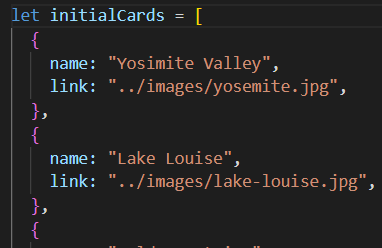
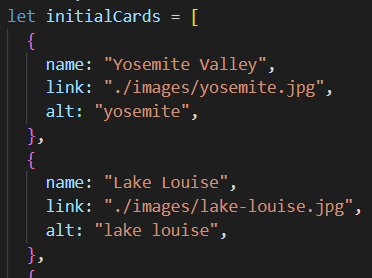
S4.4 fix: submission 1 corrections

diff --git a/index.html b/index.html
@@ -18,41 +18,6 @@
   </head>
   <body>
     <div class="page">
-      <div class="modal">
-        <div class="modal__container">
-          <form class="form">
-            <button class="form__close-button" type="button" name="close">
-              <img
-                class="form__close-icon"
-                src="./images/close-icon.png"
-                alt="close"
-              />
-            </button>
-            <p class="form__description">Edit Profile</p>
-            <fieldset class="form__fieldset">
-              <input
-                type="text"
-                class="form__input form__input_type_name"
-                id="name"
-                name="name"
-                placeholder="Name"
-                required
-              />
-              <input
-                type="text"
-                class="form__input form__input_type_about"
-                id="about"
-                name="about"
-                placeholder="About Me"
-                required
-              />
-              <button type="submit" class="form__submit-button" name="submit">
-                Save
-              </button>
-            </fieldset>
-          </form>
-        </div>
-      </div>
       <header class="header">
         <img class="logo" src="./images/logo.svg" alt="Logo" />
       </header>
@@ -65,7 +30,11 @@
           />
           <div class="profile__info">
             <h1 class="profile__title">Jacques Cousteau</h1>
-            <button class="profile__edit-button" type="button"></button>
+            <button
+              class="profile__edit-button"
+              type="button"
+              aria-label="edit"
+            ></button>
             <p class="profile__description">Explorer</p>
           </div>
           <button class="profile__add-button" type="button">
@@ -91,6 +60,40 @@
       <footer class="footer">
         <p class="footer__text">© 2002 Around The U.S.</p>
       </footer>
+      <div class="modal">
+        <div class="modal__container">
+          <button
+            class="modal__close-button"
+            type="button"
+            name="close"
+            aria-label="close"
+          ></button>
+          <form class="form">
+            <h2 class="form__description">Edit Profile</h2>
+            <fieldset class="form__fieldset">
+              <input
+                type="text"
+                class="form__input form__input_type_name"
+                id="name"
+                name="name"
+                placeholder="Name"
+                required
+              />
+              <input
+                type="text"
+                class="form__input form__input_type_about"
+                id="about"
+                name="about"
+                placeholder="About Me"
+                required
+              />
+              <button type="submit" class="form__submit-button" name="submit">
+                Save
+              </button>
+            </fieldset>
+          </form>
+        </div>
+      </div>
     </div>
     <script src="./scripts/index.js"></script>
   </body>

diff --git a/scripts/index.js b/scripts/index.js
@@ -1,27 +1,33 @@
 let initialCards = [
   {
-    name: "Yosimite Valley",
+    name: "Yosemite Valley",
     link: "./images/yosemite.jpg",
+    alt: "yosemite",
   },
   {
     name: "Lake Louise",
     link: "./images/lake-louise.jpg",
+    alt: "lake louise",
   },
   {
     name: "Bald Mountains",
     link: "./images/bald-mountains.jpg",
+    alt: "bald mountains",
   },
   {
     name: "Latemar",
     link: "./images/latemar.jpg",
+    alt: "latemar",
   },
   {
     name: "Vanoise National Park",
     link: "./images/vanoise.jpg",
+    alt: "vanoise",
   },
   {
     name: "Lago di Braies",
     link: "./images/lago.jpg",
+    alt: "lago",
   },
 ];
 
@@ -29,7 +35,7 @@ const modalOverlay = document.querySelector(".modal");
 const formElement = document.querySelector(".form");
 const profileElement = document.querySelector(".profile");
 
-const closeButton = formElement.querySelector(".form__close-button");
+const closeButton = modalOverlay.querySelector(".modal__close-button");
 const submitButton = formElement.querySelector(".form__submit-button");
 const editButton = profileElement.querySelector(".profile__edit-button");
 
@@ -37,6 +43,9 @@ const formNameText = formElement.querySelector(".form__input_type_name");
 const formAboutText = formElement.querySelector(".form__input_type_about");
 const currentNameText = profileElement.querySelector(".profile__title");
 const currentAboutText = profileElement.querySelector(".profile__description");
+
+const cardTemplate = document.querySelector("#card").content;
+const cardsDisplayed = document.querySelector(".cards");
 
 function displayModal() {
   formNameText.value = currentNameText.textContent;
@@ -58,23 +67,31 @@ function handleFormSubmit(evt) {
   hideModal();
 }
 
-function getCardElement(cardName, cardLink) {
-  let cardTemplate = document.querySelector("#card").content;
-  let cardsDisplayed = document.querySelector(".cards");
-
+function getCardElement(data) {
   let cardElement = cardTemplate.querySelector(".card").cloneNode(true);
 
-  cardElement.querySelector(".card__title").textContent = cardName;
-  cardElement.querySelector(".card__image").src = cardLink;
+  cardElement.querySelector(".card__title").textContent = data["name"];
+  cardElement.querySelector(".card__image").src = data["link"];
+  cardElement.querySelector(".card__image").alt = data["alt"];
 
-  cardsDisplayed.append(cardElement);
+  return cardElement;
 }
 
-for (card of initialCards) {
-  cardName = card.name;
-  cardLink = card.link;
-  getCardElement(cardName, cardLink);
+function appendCards() {
+  for (card of initialCards) {
+    let data = ["name", "link", "alt"];
+
+    data["name"] = card.name;
+    data["link"] = card.link;
+    data["alt"] = card.alt;
+
+    let newCard = getCardElement(data);
+
+    cardsDisplayed.append(newCard);
+  }
 }
+
+appendCards();
 
 editButton.addEventListener("click", displayModal);
 closeButton.addEventListener("click", hideModal);

diff --git a/blocks/form.css b/blocks/form.css
@@ -1,12 +1,5 @@
 .form {
-  background-color: #fff;
-  max-width: 430px;
-  height: 330px;
-  width: 100%;
   padding: 34px 36px 36px;
-  box-sizing: border-box;
-  border-radius: 10px;
-  position: relative;
 }
 
 .form__description {
@@ -41,7 +34,10 @@
   max-width: 358px;
   height: 50px;
   width: 100%;
+  font-size: 18px;
+  line-height: 22px;
   text-align: center;
+  border: none;
   border-radius: 2px;
 }
 
@@ -50,33 +46,7 @@
   cursor: pointer;
 }
 
-.form__close-button {
-  background-color: transparent;
-  border: none;
-  position: absolute;
-  top: -40px;
-  left: 420px;
-  padding: 0;
-  width: 56px;
-  height: 56px;
-}
-
-.form__close-button:hover {
-  opacity: 0.6;
-  cursor: pointer;
-}
-
-.form__close-icon {
-  width: 28px;
-  height: 28px;
-}
-
 @media screen and (max-width: 644px) {
-  .form {
-    max-width: 282px;
-    height: 322px;
-  }
-
   .form__description {
     font-size: 18px;
     margin-bottom: 45px;
@@ -86,22 +56,6 @@
     height: 46px;
     margin-top: 45px;
     font-size: 14px;
-  }
-
-  .form__close-button {
-    left: 280px;
-    width: 37px;
-    height: 37px;
-  }
-
-  .form__close-icon {
-    width: 18px;
-    height: 18px;
-  }
-}
-
-@media screen and (max-width: 372px) {
-  .form__close-button {
-    left: 250px;
+    line-height: 17px;
   }
 }

diff --git a/blocks/modal.css b/blocks/modal.css
@@ -1,12 +1,5 @@
 .modal {
-  display: none;
-}
-
-.modal_open {
-  display: block;
-}
-
-.modal__container {
+  visibility: hidden;
   position: fixed;
   top: 0;
   left: 0;
@@ -17,4 +10,58 @@
   display: flex;
   justify-content: center;
   align-items: center;
+}
+
+.modal_open {
+  visibility: visible;
+}
+
+.modal__container {
+  background-color: #fff;
+  max-width: 430px;
+  width: 100%;
+  box-sizing: border-box;
+  border-radius: 10px;
+  position: relative;
+}
+
+.modal__close-button {
+  background-color: transparent;
+  background-image: url("../images/close-icon.svg");
+  background-repeat: no-repeat;
+  background-size: 28px;
+  background-position: center;
+  border: none;
+  position: absolute;
+  top: -40px;
+  right: -40px;
+  padding: 0;
+  width: 56px;
+  height: 56px;
+}
+
+.modal__close-button:hover {
+  opacity: 0.6;
+  cursor: pointer;
+}
+
+@media screen and (max-width: 644px) {
+  .modal__container {
+    max-width: 282px;
+  }
+
+  .modal__close-button {
+    top: -28px;
+    right: -28px;
+    width: 37px;
+    height: 37px;
+    background-size: 18px;
+  }
+}
+
+@media screen and (max-width: 372px) {
+  .modal__close-button {
+    position: absolute;
+    right: -5px;
+  }
 }
